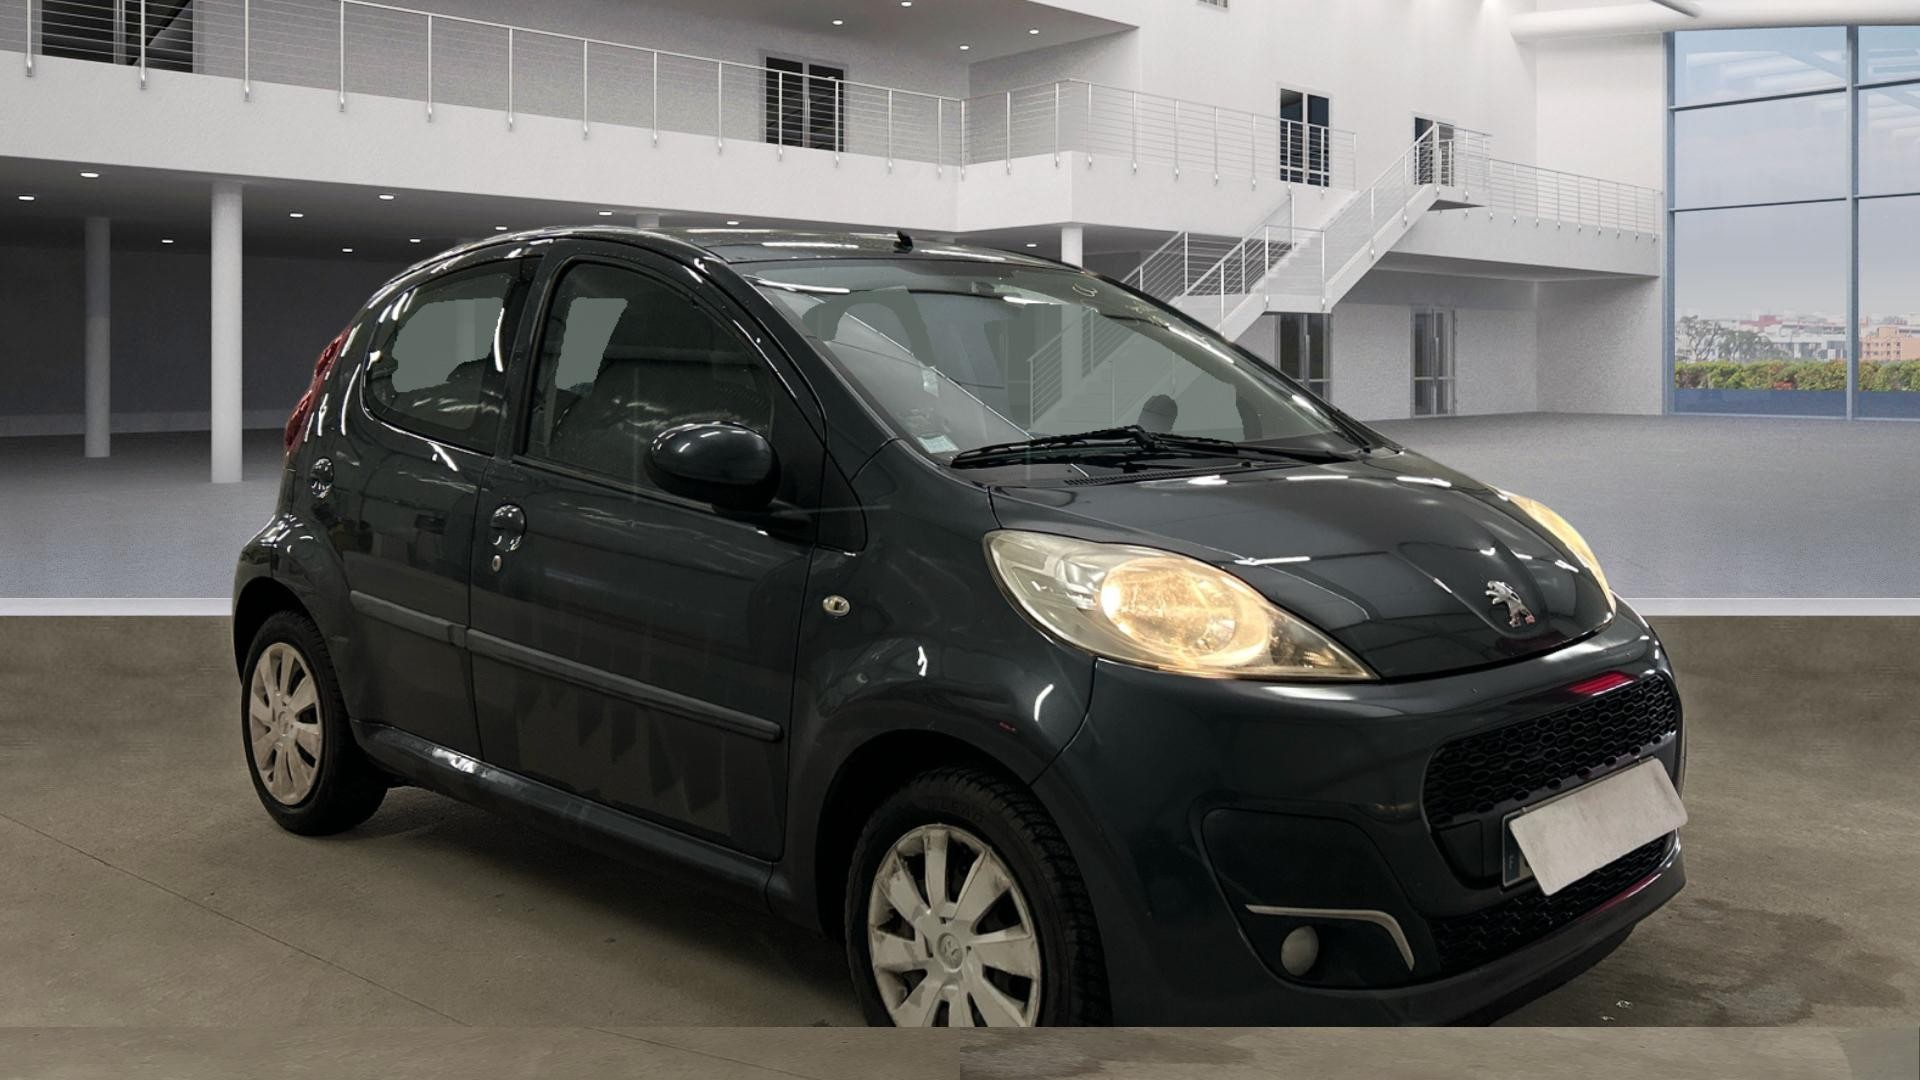
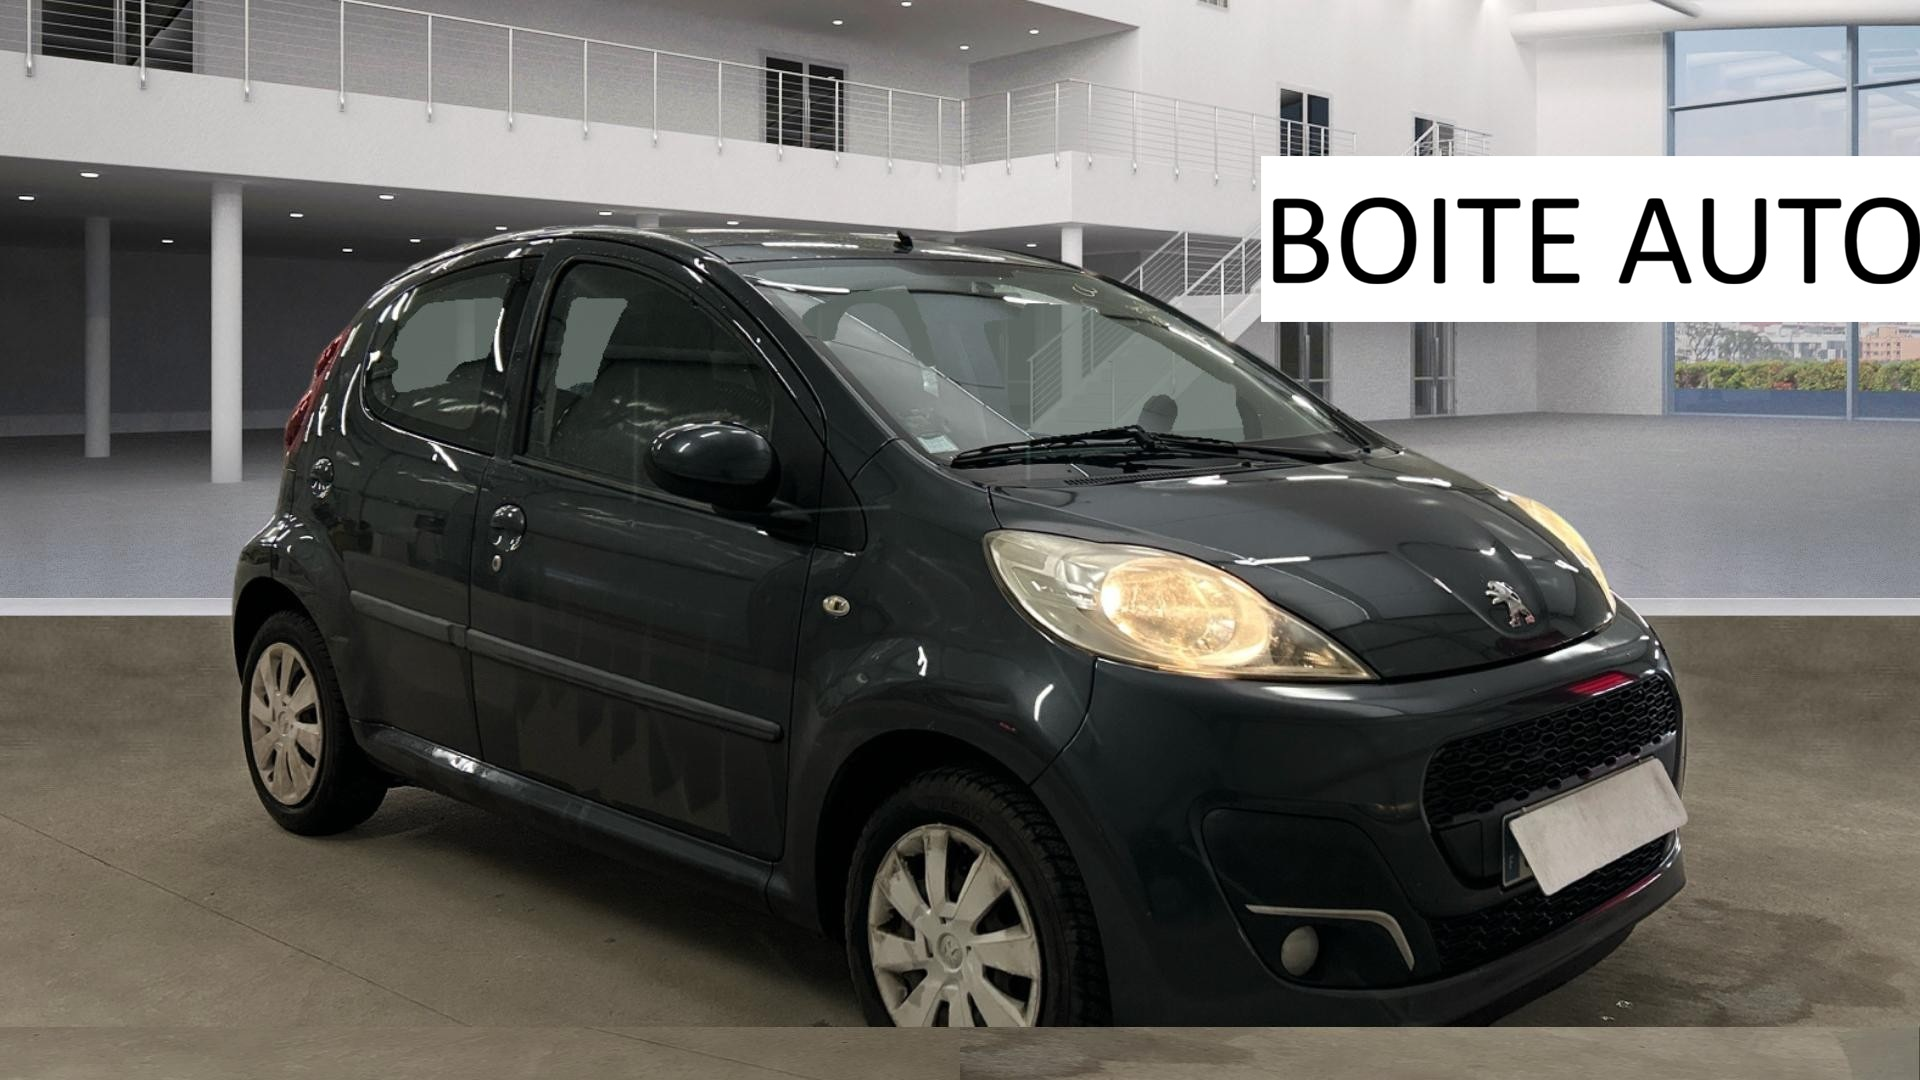
maj

Changed region(s): [[0.6562, 0.1222, 1.0, 0.3056]]

diff --git a/content/post/20260213_peugeot_107bva_2011_noire_5p_70mkm/index.md b/content/post/20260213_peugeot_107bva_2011_noire_5p_70mkm/index.md
@@ -1,0 +1,70 @@
++++
+title = "PEUGEOT 107 2011 noire 5p BVA clim "
+description = "PEUGEOT 107 2011 noire 5p BVA clim  "
+tags = [
+]
+date = "2026-02-19"
+categories = [
+    "Voitures"
+]
+image = "../post/20260213_peugeot_107bva_2011_noire_5p_70mkm/images/1.jpg"
+adate = "2011"
+akm = "71 000km"
+agaz = "essence"
+aboite = "auto"
+apuissance= "68 CV"
+acouleur = "noire"
+prix="7400"
+
++++
+
+# PEUGEOT 107 2011 noire 5p BVA clim 
+
+{{< gallery  "../post/20260213_peugeot_107bva_2011_noire_5p_70mkm/images/1.jpg,../post/20260213_peugeot_107bva_2011_noire_5p_70mkm/images/2.jpg,../post/20260213_peugeot_107bva_2011_noire_5p_70mkm/images/3.jpg" "A PNG gallery image::A WEBP gallery image::A JPEG gallery image" >}}
+ 
+
+
+PEUGEOT 107 2011 noire 5p BVA clim  affichant 71.000 km
+
+
+### EQUIPEMENTS :
+Climatisation, Verrouillage centralisé avec télécommande, Compte tours, Direction assistée , Radio CARPLAY Bluetooth, Vitres avant électriques, Airbags, Sièges arrières ISOFIX, Banquette arrière rabattable, etc..
+Liste d'options à valider avec un commercial lors de votre visite
+
+
+### CARROSSERIE :
+Très Propre ( porte arrière gauche un peu frottée)
+
+
+### INTERIEUR :
+Tissu très propre
+
+### MECANIQUE :
+Entretien à jour ( vidange + filtres fait en 02/26)
+Moteur à chaîne ( pas de Courroie de distribution)
+
+
+Double des clés
+Consommation : 4L/100km
+Véhicule économe
+
+
+Contrôle technique OK 
+
+Aucun frais à prévoir
+
+
+### PRIX : 7400 Euros
+
+Disponible rapidement
+Garantie 6 mois
+
+<!-- more -->
+
+
+![](images/1.jpg)
+
+![](images/2.jpg)
+
+![](images/3.jpg)
+

diff --git a/content/post/20260213_peugeot_107bva_2012_grisf_5p_140mkm/index.md b/content/post/20260213_peugeot_107bva_2012_grisf_5p_140mkm/index.md
@@ -1,6 +1,6 @@
 +++
-title = "PEUGEOT 107 2012 grise 5p BVA clim "
-description = "PEUGEOT 107 2012 grise 5p BVA clim "
+title = "PEUGEOT 107 2012 grise 5p BVA "
+description = "PEUGEOT 107 2012 grise 5p BVA "
 tags = [
 ]
 date = "2026-02-13"
@@ -24,7 +24,7 @@ prix="6900"
  
 
 
-PEUGEOT 107 2012 grise 5p BVA clim affichant 140.000 km
+PEUGEOT 107 2012 grise 5p BVA affichant 140.000 km
 
 
 ### EQUIPEMENTS :
@@ -33,15 +33,16 @@ Liste d'options à valider avec un commercial lors de votre visite
 
 
 ### CARROSSERIE :
-Très Propre
+Propre
 
 
 ### INTERIEUR :
 Tissu très propre
 
 ### MECANIQUE :
-Entretien à jour ( vidange + filtres fait en 02/26)
+Entretien à jour ( vidange + filtres fait en 07/25)
 Moteur à chaîne ( pas de Courroie de distribution)
+Historique d'entretien
 
 
 Double des clés
